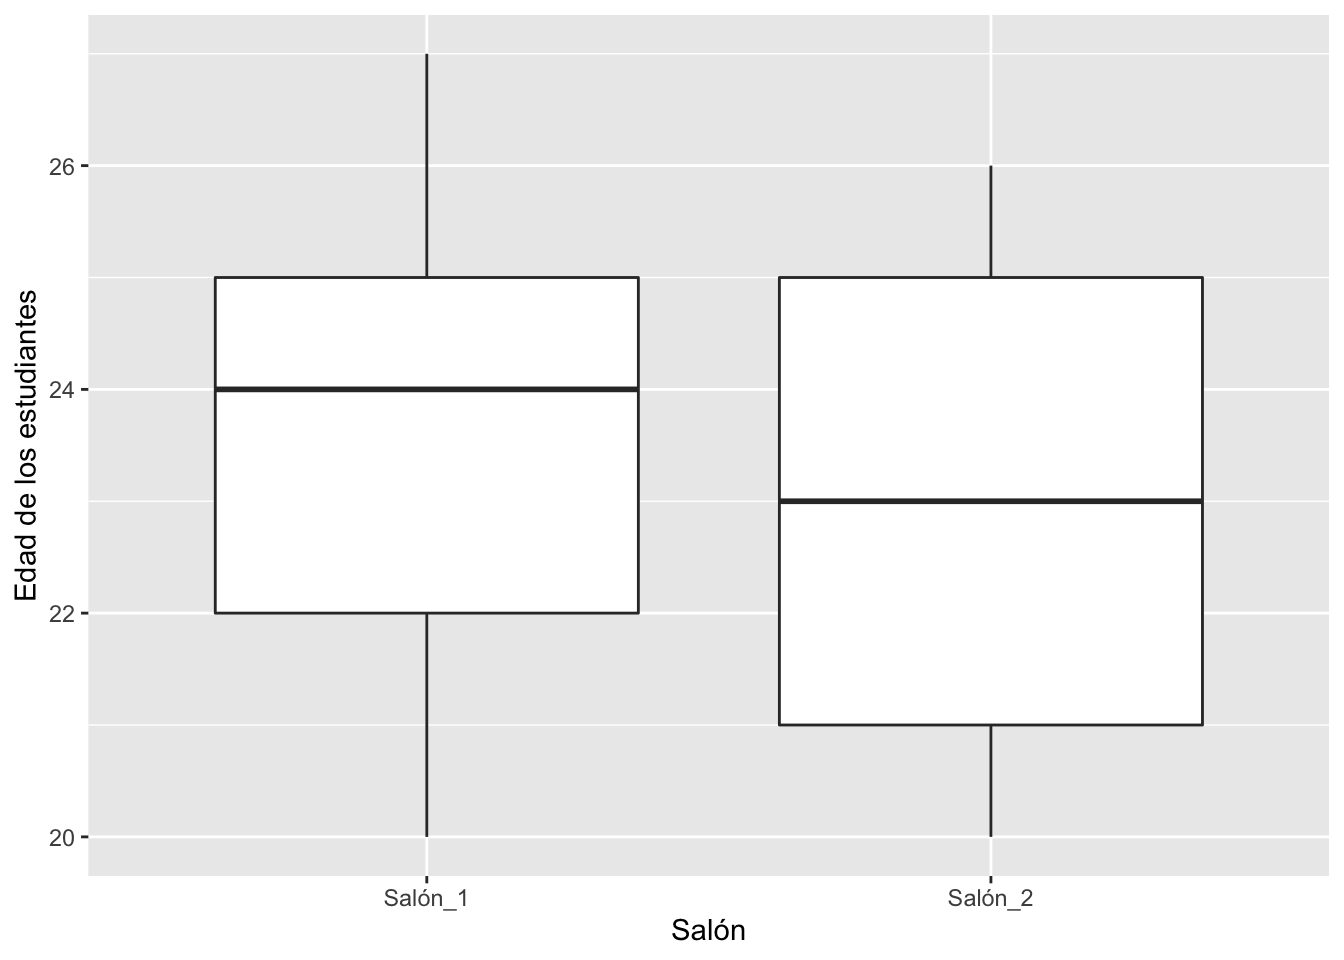
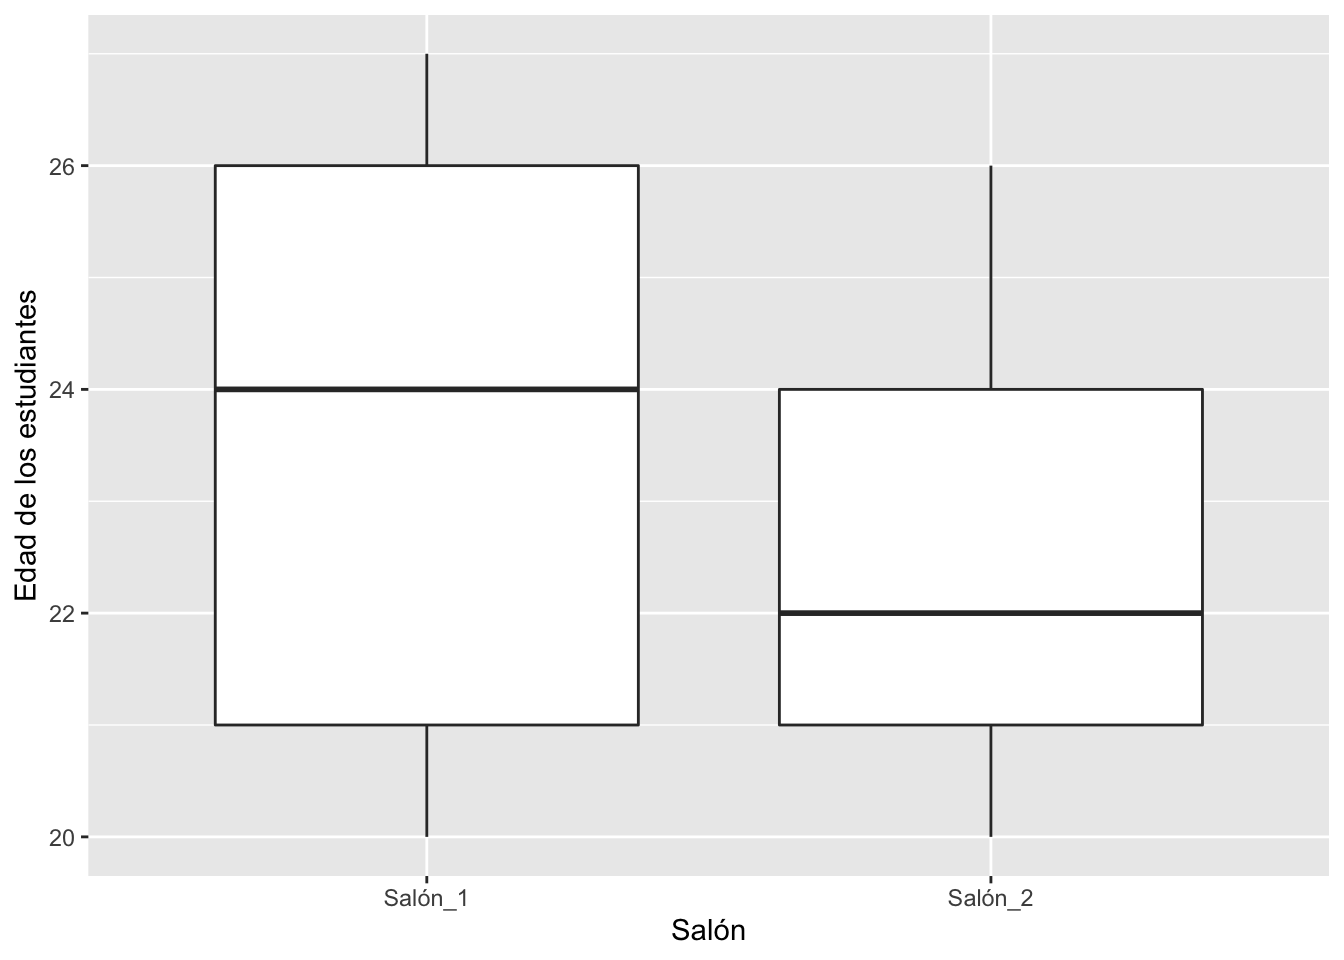
Leves edición a G1

diff --git a/G1-ggplot2.html b/G1-ggplot2.html
@@ -520,17 +520,17 @@ div.tocify {
 <p>Veamos un ejemplo. Si uno lista las edades de estudiantes universitarios de dos salones, tendremos el reto de intentar discernir si sus edades son aproximadamente iguales o diferentes solo al mirar la lista. ¿Será posible? A ver, intenta explicar cuál es la diferencia (si existe alguna) en las edades de las dos listas siguientes.</p>
 <p>Edades del salón 1:</p>
 <pre><code>## $V1
-##   [1] 23 20 27 27 25 24 27 22 25 21 25 22 27 20 23 24 25 23 25 24 25 21 27 27 24
-##  [26] 27 21 23 22 23 26 27 24 22 24 24 27 21 23 22 26 20 27 25 20 25 20 20 25 24
-##  [51] 24 23 25 27 24 23 21 26 21 24 20 24 20 23 20 27 27 22 25 24 20 22 27 24 20
-##  [76] 27 23 22 26 20 25 23 22 25 23 21 20 26 25 27 25 20 25 25 20 25 26 21 22 25</code></pre>
+##   [1] 24 25 24 26 23 25 26 25 26 23 21 21 27 25 21 20 23 26 27 20 24 25 21 26 20
+##  [26] 24 27 22 21 27 26 22 26 22 24 25 26 23 20 27 21 25 21 26 27 26 27 22 20 20
+##  [51] 22 25 20 20 21 25 23 20 21 27 26 20 27 21 22 26 22 27 20 23 26 20 27 24 21
+##  [76] 24 22 22 20 23 24 25 21 23 22 20 26 26 25 24 27 27 23 26 23 21 24 20 26 20</code></pre>
 <hr />
 <p>Edades del salón 2:</p>
 <pre><code>## $V1
-##   [1] 23 25 26 23 23 20 23 25 25 26 23 21 22 25 20 22 22 24 25 21 22 25 25 22 24
-##  [26] 24 23 26 24 21 25 20 24 20 20 24 25 25 20 23 20 25 22 26 26 22 23 26 23 24
-##  [51] 25 23 25 23 26 22 25 23 23 21 25 24 21 23 20 21 25 22 26 20 22 24 26 20 24
-##  [76] 26 20 22 21 23 24 20 23 21 20 21 23 21 26 26 23 25 20 21 22 25 23 20 26 23</code></pre>
+##   [1] 26 20 20 20 21 24 20 22 25 20 26 24 24 22 20 22 22 23 25 25 21 21 22 23 23
+##  [26] 21 24 21 21 21 20 21 21 20 20 24 25 26 22 20 22 26 21 21 22 23 26 20 20 23
+##  [51] 25 25 21 26 26 21 23 20 22 22 20 25 21 24 21 26 21 25 22 21 25 22 25 22 20
+##  [76] 26 21 20 25 22 26 23 23 21 24 20 21 23 24 23 26 20 24 24 23 24 24 23 22 25</code></pre>
 <p>Probablemente notes que no es evidente a primera vista cuál es la diferencia entre las dos listas de datos. Necesitamos ayuda para visualizar la diferencia. A continuación se explican un par de maneras de ver esa misma información.</p>
 <hr />
 <div id="resumir-la-información-en-tablas" class="section level2">
@@ -901,13 +901,13 @@ df%&gt;%
   <tbody class="gt_table_body">
     <tr>
       <td class="gt_row gt_left">Salón_1</td>
-      <td class="gt_row gt_right">23.63</td>
+      <td class="gt_row gt_right">23.51</td>
       <td class="gt_row gt_center">20</td>
       <td class="gt_row gt_center">27</td>
     </tr>
     <tr>
       <td class="gt_row gt_left">Salón_2</td>
-      <td class="gt_row gt_right">23.07</td>
+      <td class="gt_row gt_right">22.60</td>
       <td class="gt_row gt_center">20</td>
       <td class="gt_row gt_center">26</td>
     </tr>
@@ -934,11 +934,11 @@ Figura: Diagrama de Caja
 <div id="ejemplos-históricos" class="section level1">
 <h1>Ejemplos históricos</h1>
 <p>En esta sección se presentan unos ejemplos históricos de representaciones gráficas. Esta sección no es exhaustiva y su presentación tiene como objetivo demostrar la representación de algunos ejemplos de forma gráfica.</p>
-<div id="ejemplo-de-la-campaña-de-napoleón-para-invadir-a-rusia" class="section level2">
-<h2>Ejemplo de la campaña de Napoleón para invadir a Rusia</h2>
-<p>Charles Joseph Minard (1781-1870; Francia) es una de las personas que contribuyó en el desarrollo del tema que hoy día se conoce como <strong>gráficas informativas</strong> (o -Information Graphics- en inglés). Él se reconoce por sus innovaciones al utilizar gráficos para demostrar patrones. El gráfico más famoso creado por este señor fue sobre la campaña de guerra de Napoleón para invadir a Rusia (1812-1813), explicado a continuación.</p>
-<p>En la ilustración <strong>Mapa: Campaña de Napoleón</strong> podemos apreciar el movimiento de la campaña de Napoleón para invadir a Rusia. El movimiento de ida está representado con la cantidad de hombres que comenzaron el camino hacia Rusia (<span style="color: brown;">la línea de color marrón</span>) hasta Moscú, y el viaje de regreso de color <strong>negro</strong>. El ancho de cada barra representa la cantidad de hombres presentes en el ejercicio militar. Los datos históricos comprueban que cuando comenzaron la campaña militar (saliendo de París) eran más de 422,000 soldados, al llegar a Moscú ya eran solamente 100,000 soldados, y cuando finalmente regresaron a París, luego de haber intentado invadir a Rusia, Napoleón tenía solamente 10,000 soldados con él.</p>
-<p>Observemos el gráfico debajo de la barra inferior. Este representa la temperatura al regresar de Moscú. Se puede observar que a la vez que bajaba la temperatura, más y más de los soldados fallecieron. Podemos concluir, entonces, que la mortandad en gran parte se debió a no estar preparados para el frío. Vale hacer notar que la escala de temperatura en aquel entonces no era de Celcius ni de Farenheit. La escala ilustrada se llama <strong>Réaumus</strong>, en que el punto de congelación y de ebullición es de 0° y 80° respectivamente. Esa escala se usó en múltiples países de Europa hasta mediados del Siglo XIX.</p>
+<div id="campaña-de-napoleón" class="section level2">
+<h2>Campaña de Napoleón</h2>
+<p>Charles Joseph Minard (1781-1870; Francia) es una de las personas que contribuyó al desarrollo del tema que hoy día se conoce como <strong>gráficas informativas</strong> (o <em>Information Graphics</em> en inglés). Él se reconoce por sus innovaciones al utilizar gráficos para demostrar patrones. El gráfico más famoso creado por este señor fue sobre la campaña de guerra de Napoleón para invadir a Rusia (1812-1813), explicado a continuación.</p>
+<p>En la ilustración <strong>Mapa: Campaña de Napoleón</strong> podemos apreciar el movimiento de la campaña de Napoleón para invadir a Rusia. El movimiento de ida está representado con la cantidad de hombres que comenzaron el camino hacia Rusia hasta Moscú (<span style="color: brown;">la barra de color marrón</span>), y el viaje de regreso con la barra de color <strong>negro</strong>. El ancho de cada barra representa la cantidad de hombres presentes en el ejercicio militar. Los datos históricos comprueban que cuando comenzaron la campaña militar (saliendo de París) eran más de 422,000 soldados, al llegar a Moscú ya eran solamente 100,000 soldados, y cuando finalmente regresaron a París, luego de haber intentado invadir a Rusia, Napoleón tenía solamente 10,000 soldados con él.</p>
+<p>Observemos el gráfico debajo de las barras Este representa la temperatura al regresar de Moscú. Se puede observar que a la vez que bajaba la temperatura, más y más de los soldados fallecieron. Podemos concluir, entonces, que la mortandad en gran parte se debió a no estar preparados para el frío. Vale hacer notar que la escala de temperatura en aquel entonces no era de Celcius ni de Farenheit. La escala ilustrada se llama <strong>Réaumus</strong>, que presentaba un punto de congelación y de ebullición de 0° y 80° respectivamente. Esa escala se usó en múltiples países de Europa hasta mediados del Siglo XIX.</p>
 <div class="figure" style="text-align: center">
 <img src="Graficos/Carte_Napoleon.png" alt="Mapa: Campaña de Napoleón" width="80%" />
 <p class="caption">
@@ -946,9 +946,9 @@ Mapa: Campaña de Napoleón
 </p>
 </div>
 </div>
-<div id="donde-proviene-la-carne-que-consumen-la-gente-de-paris" class="section level2">
-<h2>Donde proviene la carne que consumen la gente de Paris</h2>
-<p>Otro ejemplo de Minard es la siguiente gráfico que representa donde proviene la carne que la gente en Paris comen. El color <strong>negro</strong> representa carne vaca, el color <span style="color: green;">el color verde</span> es la ternera y el <span style="color: red;">color rojo</span> es el cordero. El uso “Pie Charts” para identificar la proporción de cada grupo y el tamaño del “Pie Chart” para identificar la cantidad relativa con los otros departamentos (Organización política local).</p>
+<div id="origen-de-la-carne-de-parís" class="section level2">
+<h2>Origen de la carne de París</h2>
+<p>Otro ejemplo gráfico de Minard es la <strong>Figura</strong>: Origina de la carne de París. Este representa la procedencia de la carne que la gente en París consumían en el S.XIX. El color <strong>negro</strong> representa carne de res, el color <span style="color: green;">el color verde</span> era de la ternera y el <span style="color: red;">color rojo</span>era de la de cordero. Vemos que ya Minard hacía uso de gráficos de pastel o torta (o <em>pie chart</em> en inglés) para identificar la proporción de cada grupo y el tamaño del pastel para identificar la cantidad relativa en comparación con los otros departamentos o dependencia política local.</p>
 <div class="figure" style="text-align: center">
 <img src="Graficos/Minard_Carne_Paris.png" alt="Figura: Origen de la carne de París" width="70%" />
 <p class="caption">
